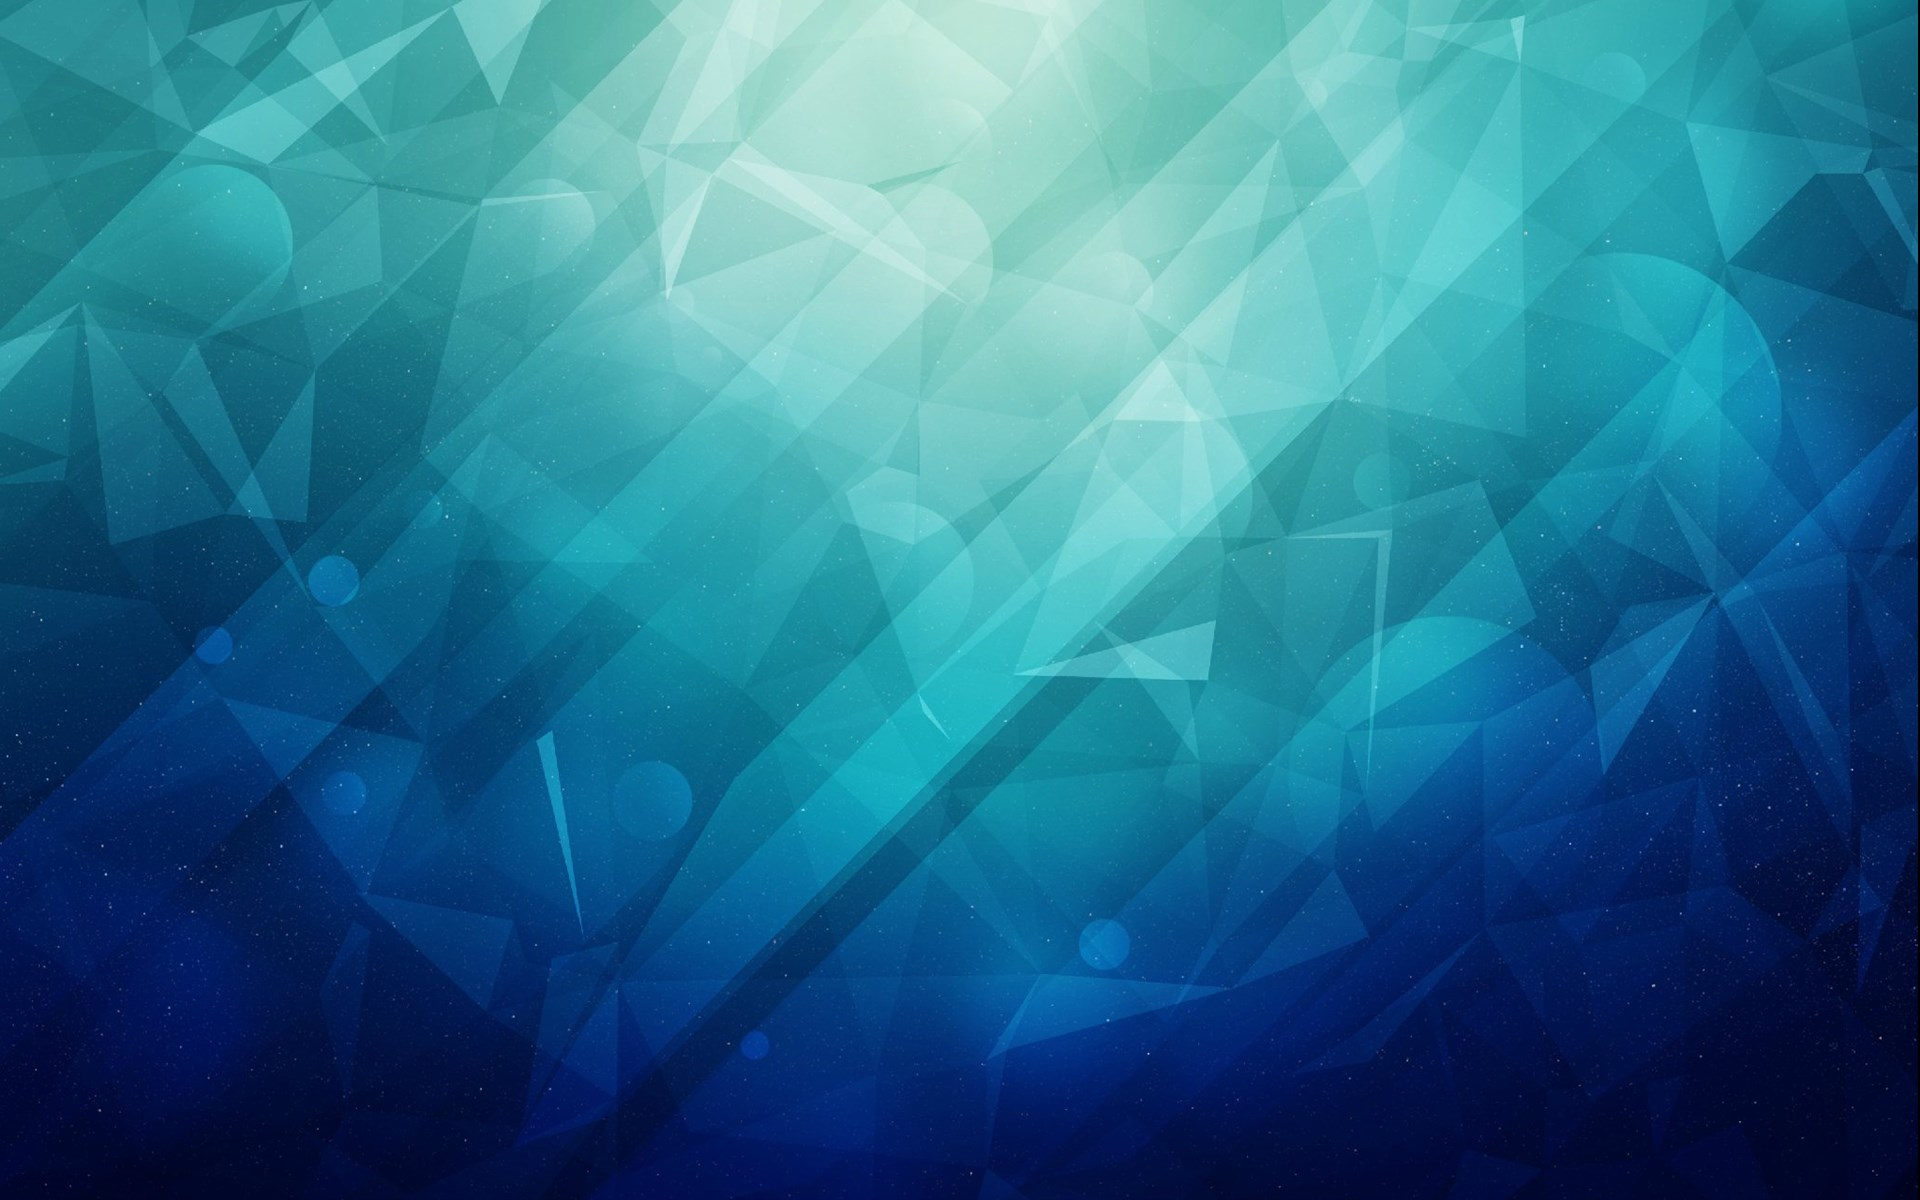
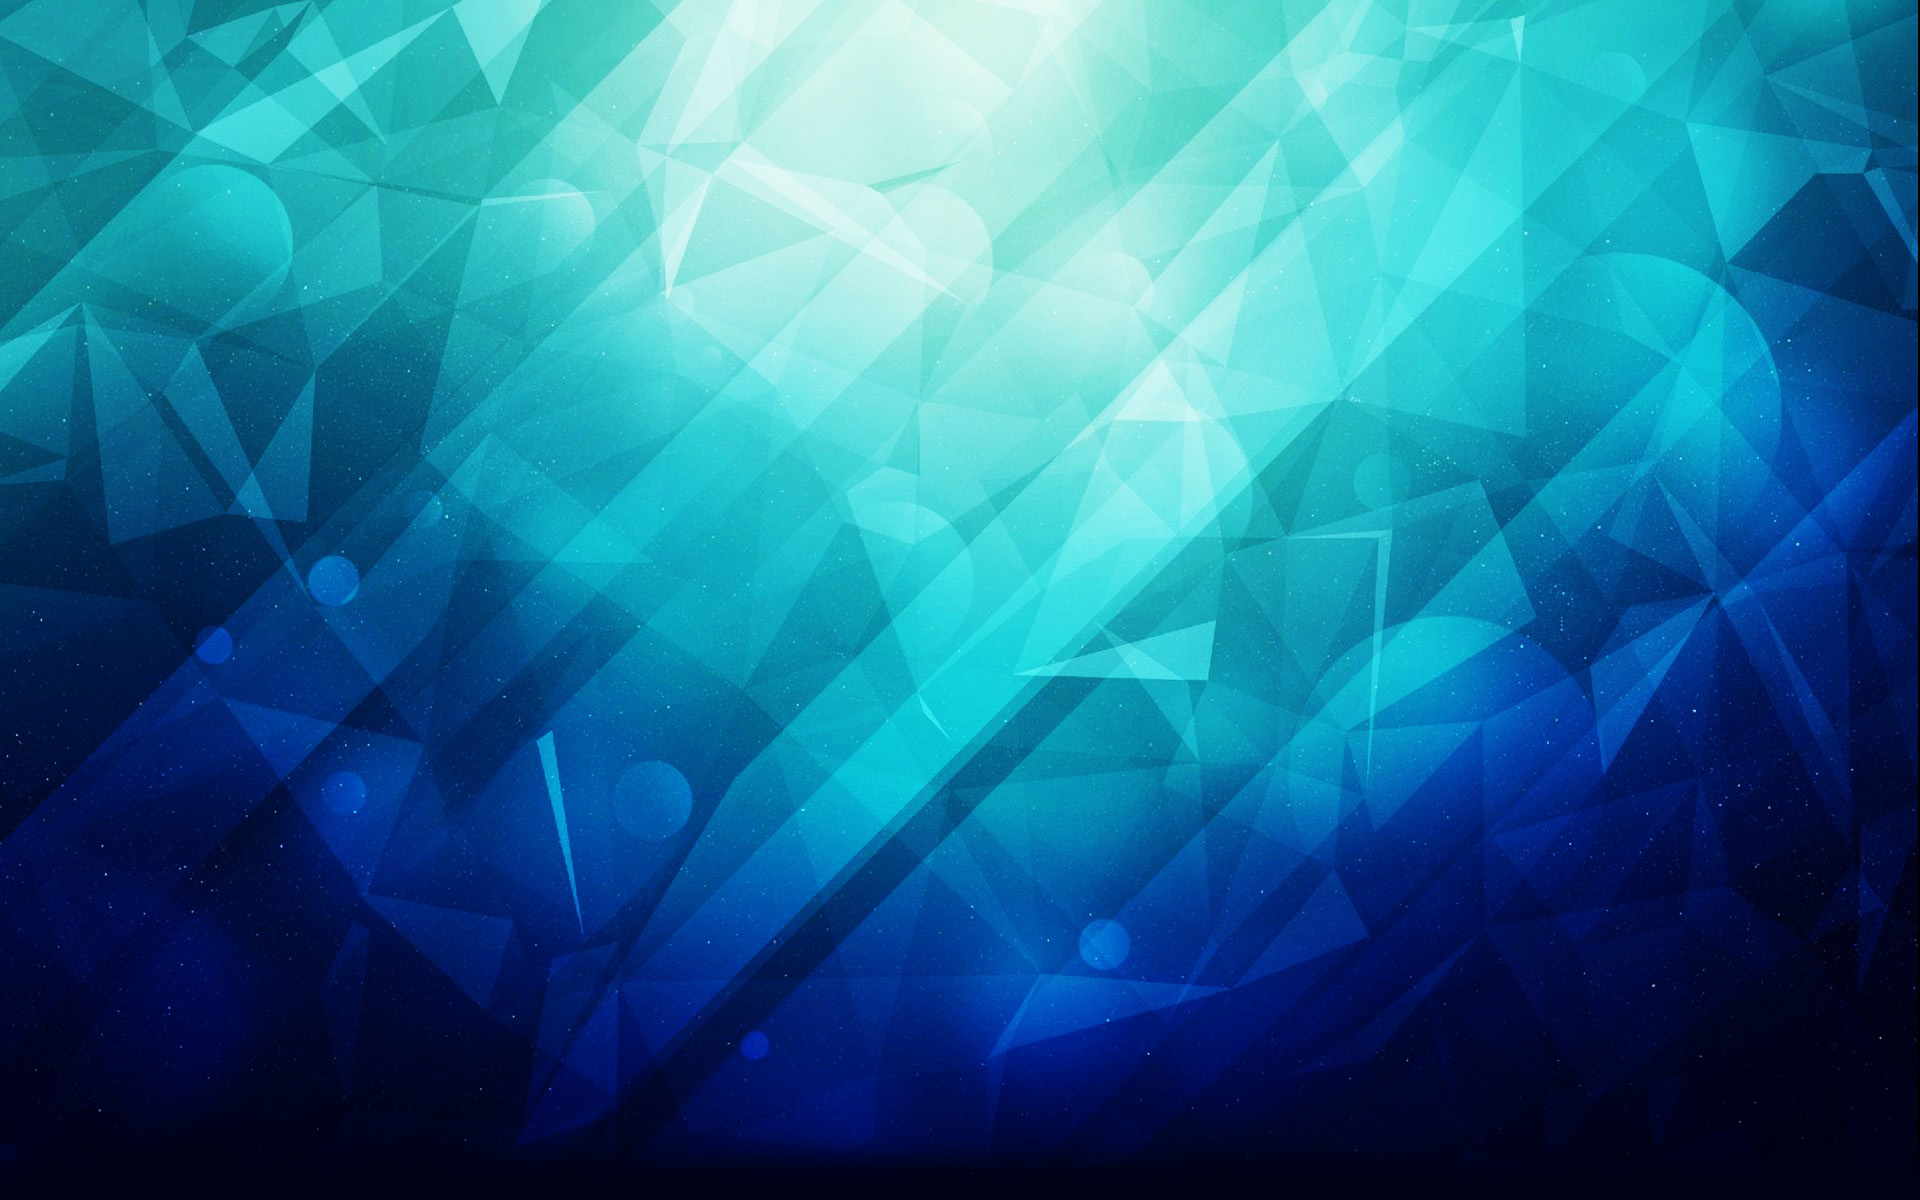
commit

diff --git a/views/wishlist.html b/views/wishlist.html
@@ -9,13 +9,14 @@
     <div ng-repeat="wish in wControl.wishes">
       <div wid="{{wish.wid}}" class="wish" ng-click="wControl.show($event,wishUser)">
         <div class="get-btn" ng-show="{{wish.isSelf}}" ng-click="wControl.finish($event)">完成心愿</div>
+        <div class="wish-done" ng-show="{{wish.isDone}}"><img src="../images/done.png" alt=""></div>
         <img wid={{wish.userId}} class="user-avatar" src={{wish.avatar}} ng-click>
         <div class="wish-content-box">
           <a class="wish-from">{{wish.loc}}</a>
           <p class="wish-content">{{wish.descp}}</p>
           <p class="wish-time">{{wish.time}}</p>
         </div>
-        <div class="wish-done" ng-show="{{wish.isDone}}"><img src="../images/done.png" alt=""></div>
+        
       </div>
       <div class="wish-from" ng-model='wishUser'>
         <div class="wish-from-box">

diff --git a/styles/index.css b/styles/index.css
@@ -23,6 +23,9 @@ COMMENTS
 .comments {
 	height: calc(100% - 40px);
 	height: -webkit-calc(100% - 40px);
+	max-height: 214px;
+	border-radius: 0 6px 6px 0;
+
 	overflow-y: scroll;
 }
 .comment-container {
@@ -91,6 +94,7 @@ COMMENTS
 	/*position: fixed;*/
 	background-color: #fff;
 	border-bottom: 1px solid #DFDFDF;
+	border-radius: 0 6px 0 0;
 }
 
 .comment-input > input {

diff --git a/scripts/controllers/wish.js b/scripts/controllers/wish.js
@@ -34,7 +34,7 @@ angular.module('helmapApp')
           for (var i = 0; i < wishes.length; i++) {
 
             if (wishes[i].status != 2 && wishes[i].status != 1) {
-
+              
               var temp = wishes[i].userId;
               userService.getUser(temp).then(function(successCallback) {
                 var data = successCallback.data.user;

diff --git a/styles/header.css b/styles/header.css
@@ -9,10 +9,10 @@ body {
 	margin: 0;
 	height: 100%;
 	background: url(../images/background.jpg) top center;
-	background-size: cover;
-  /*background-repeat: repeat-x;*/
+	/*background-size: cover;*/
+  background-repeat: repeat-x;
   background-position: center 0;
-  background-color: #d4d5e0;
+  background-color: #000316;
 }
 
 ul {

diff --git a/styles/login.css b/styles/login.css
@@ -21,7 +21,7 @@
 	width: 65vw;
 	max-width: 400px;
 	height: 35vw;
-	max-height:135px;
+	max-height:150px;
 	margin-left: auto;
 	margin-right: auto;
 	text-align: right;
